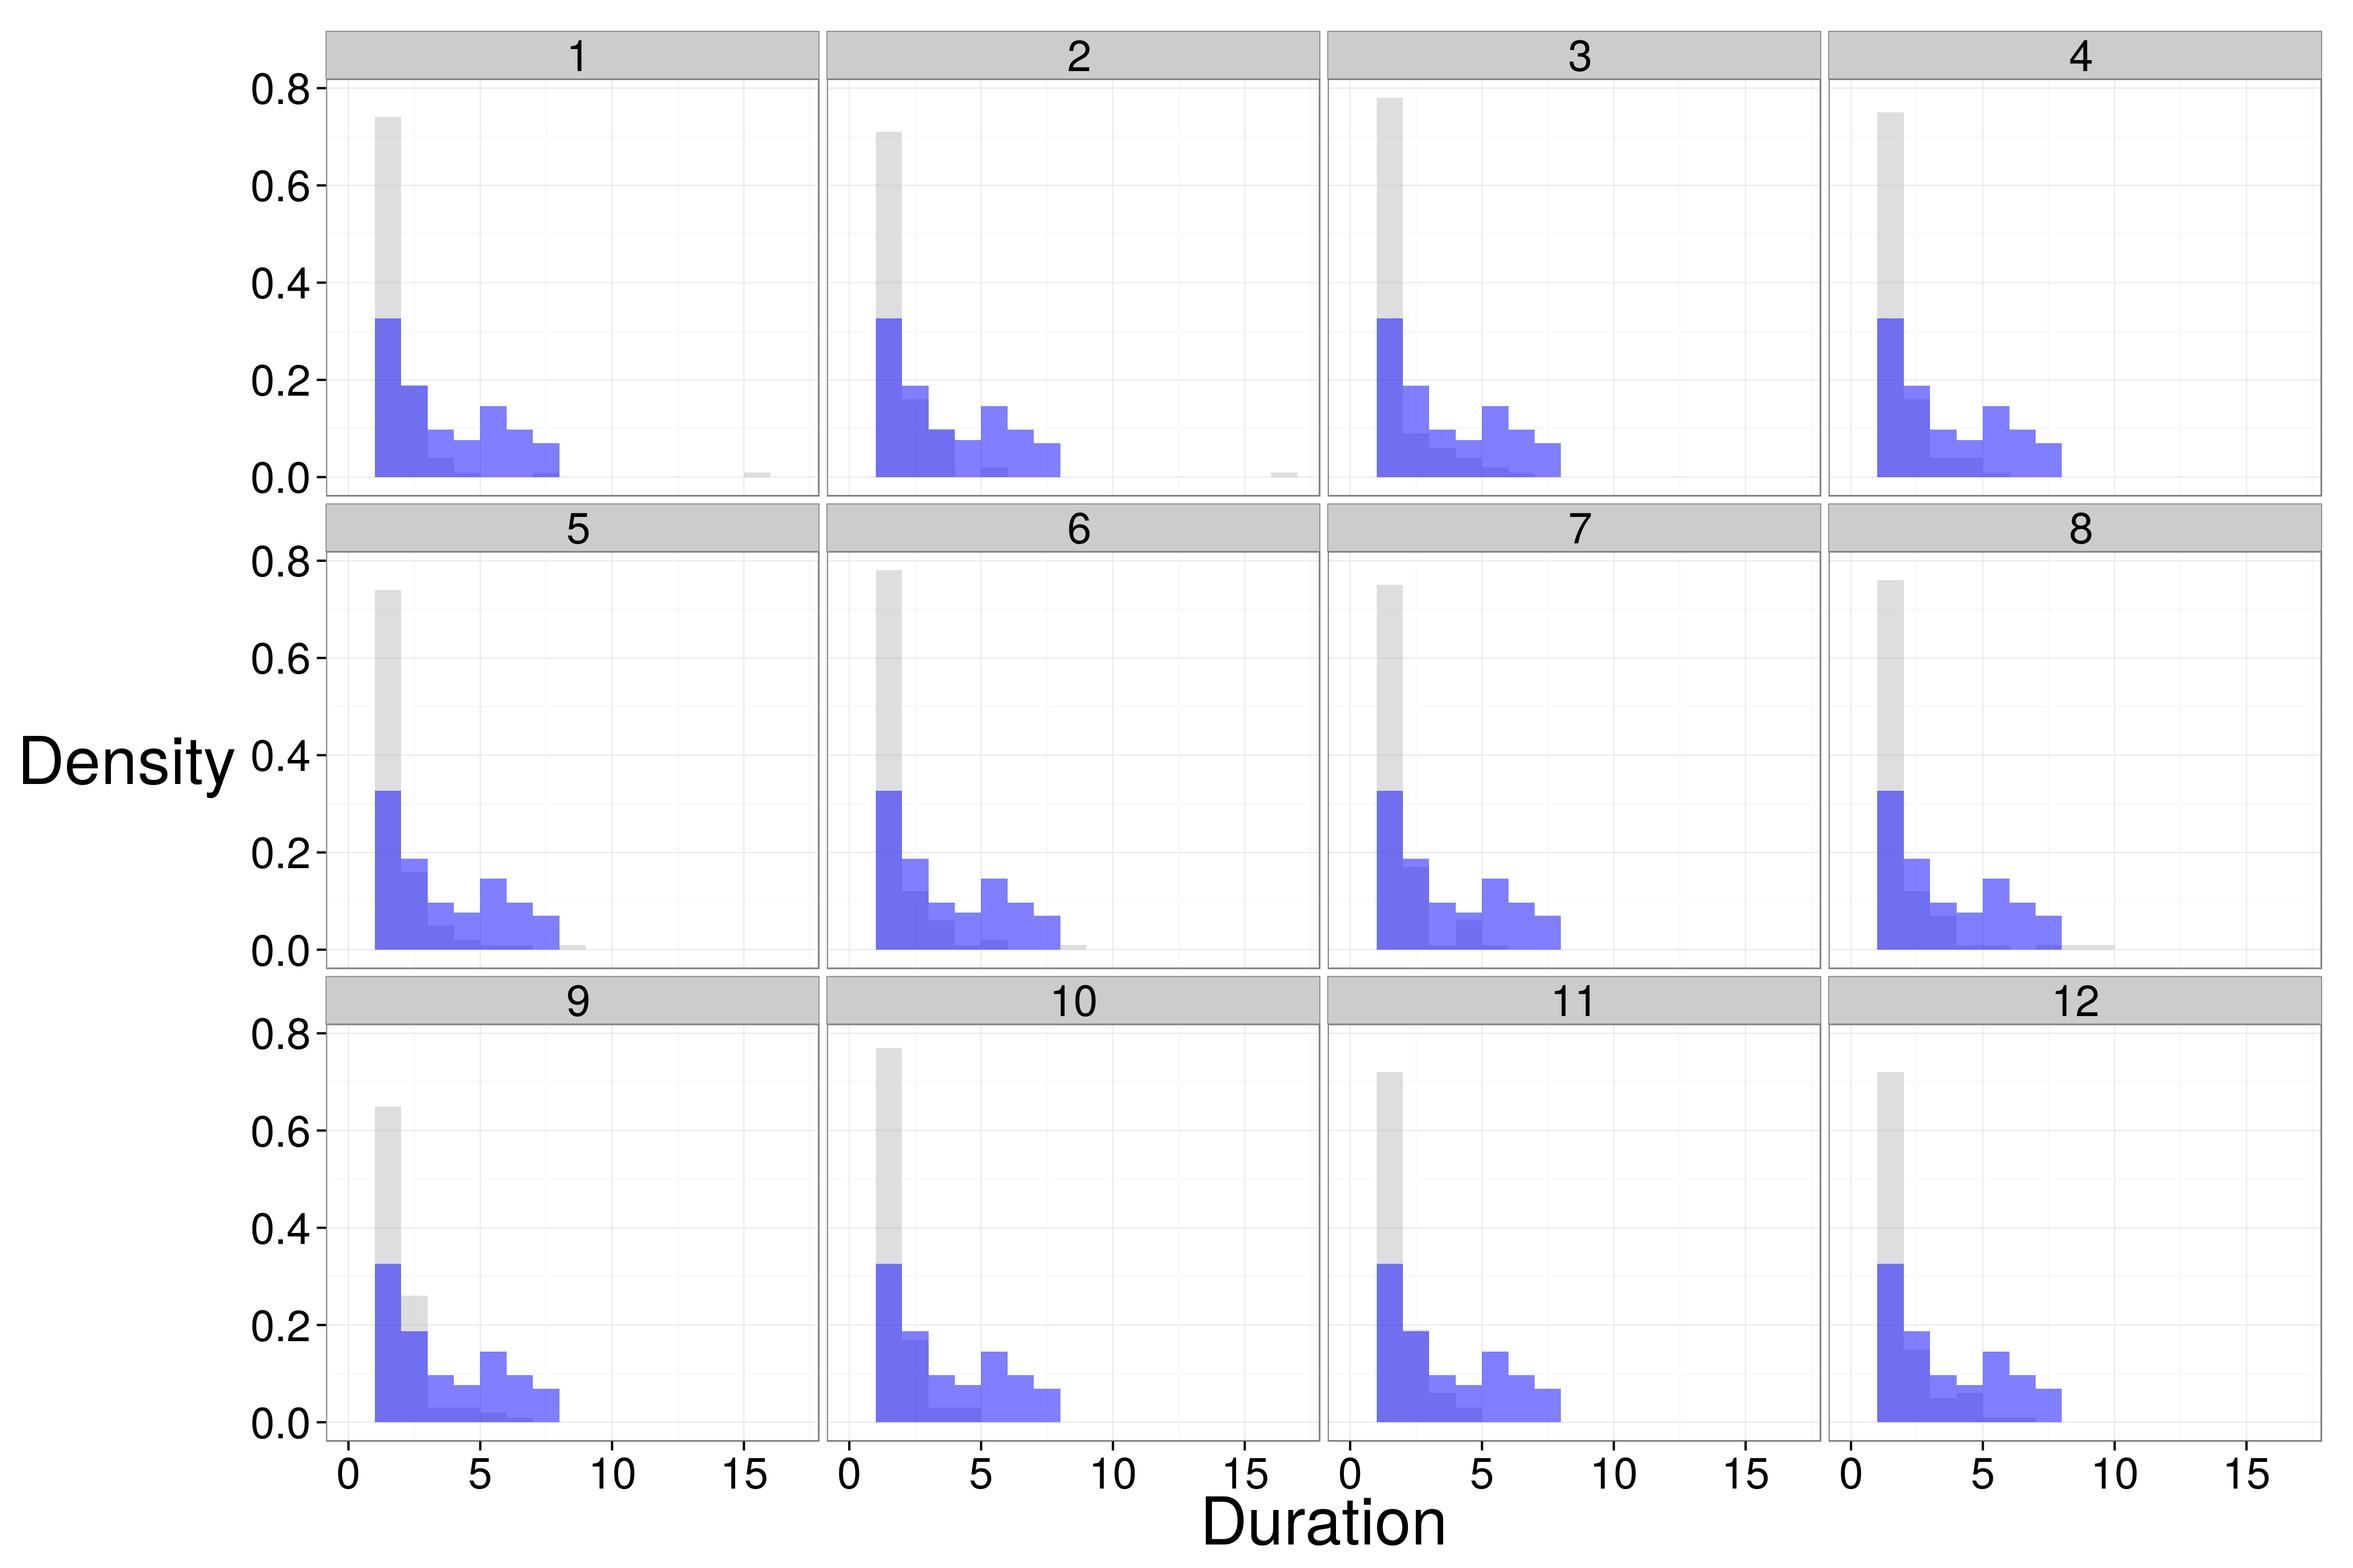
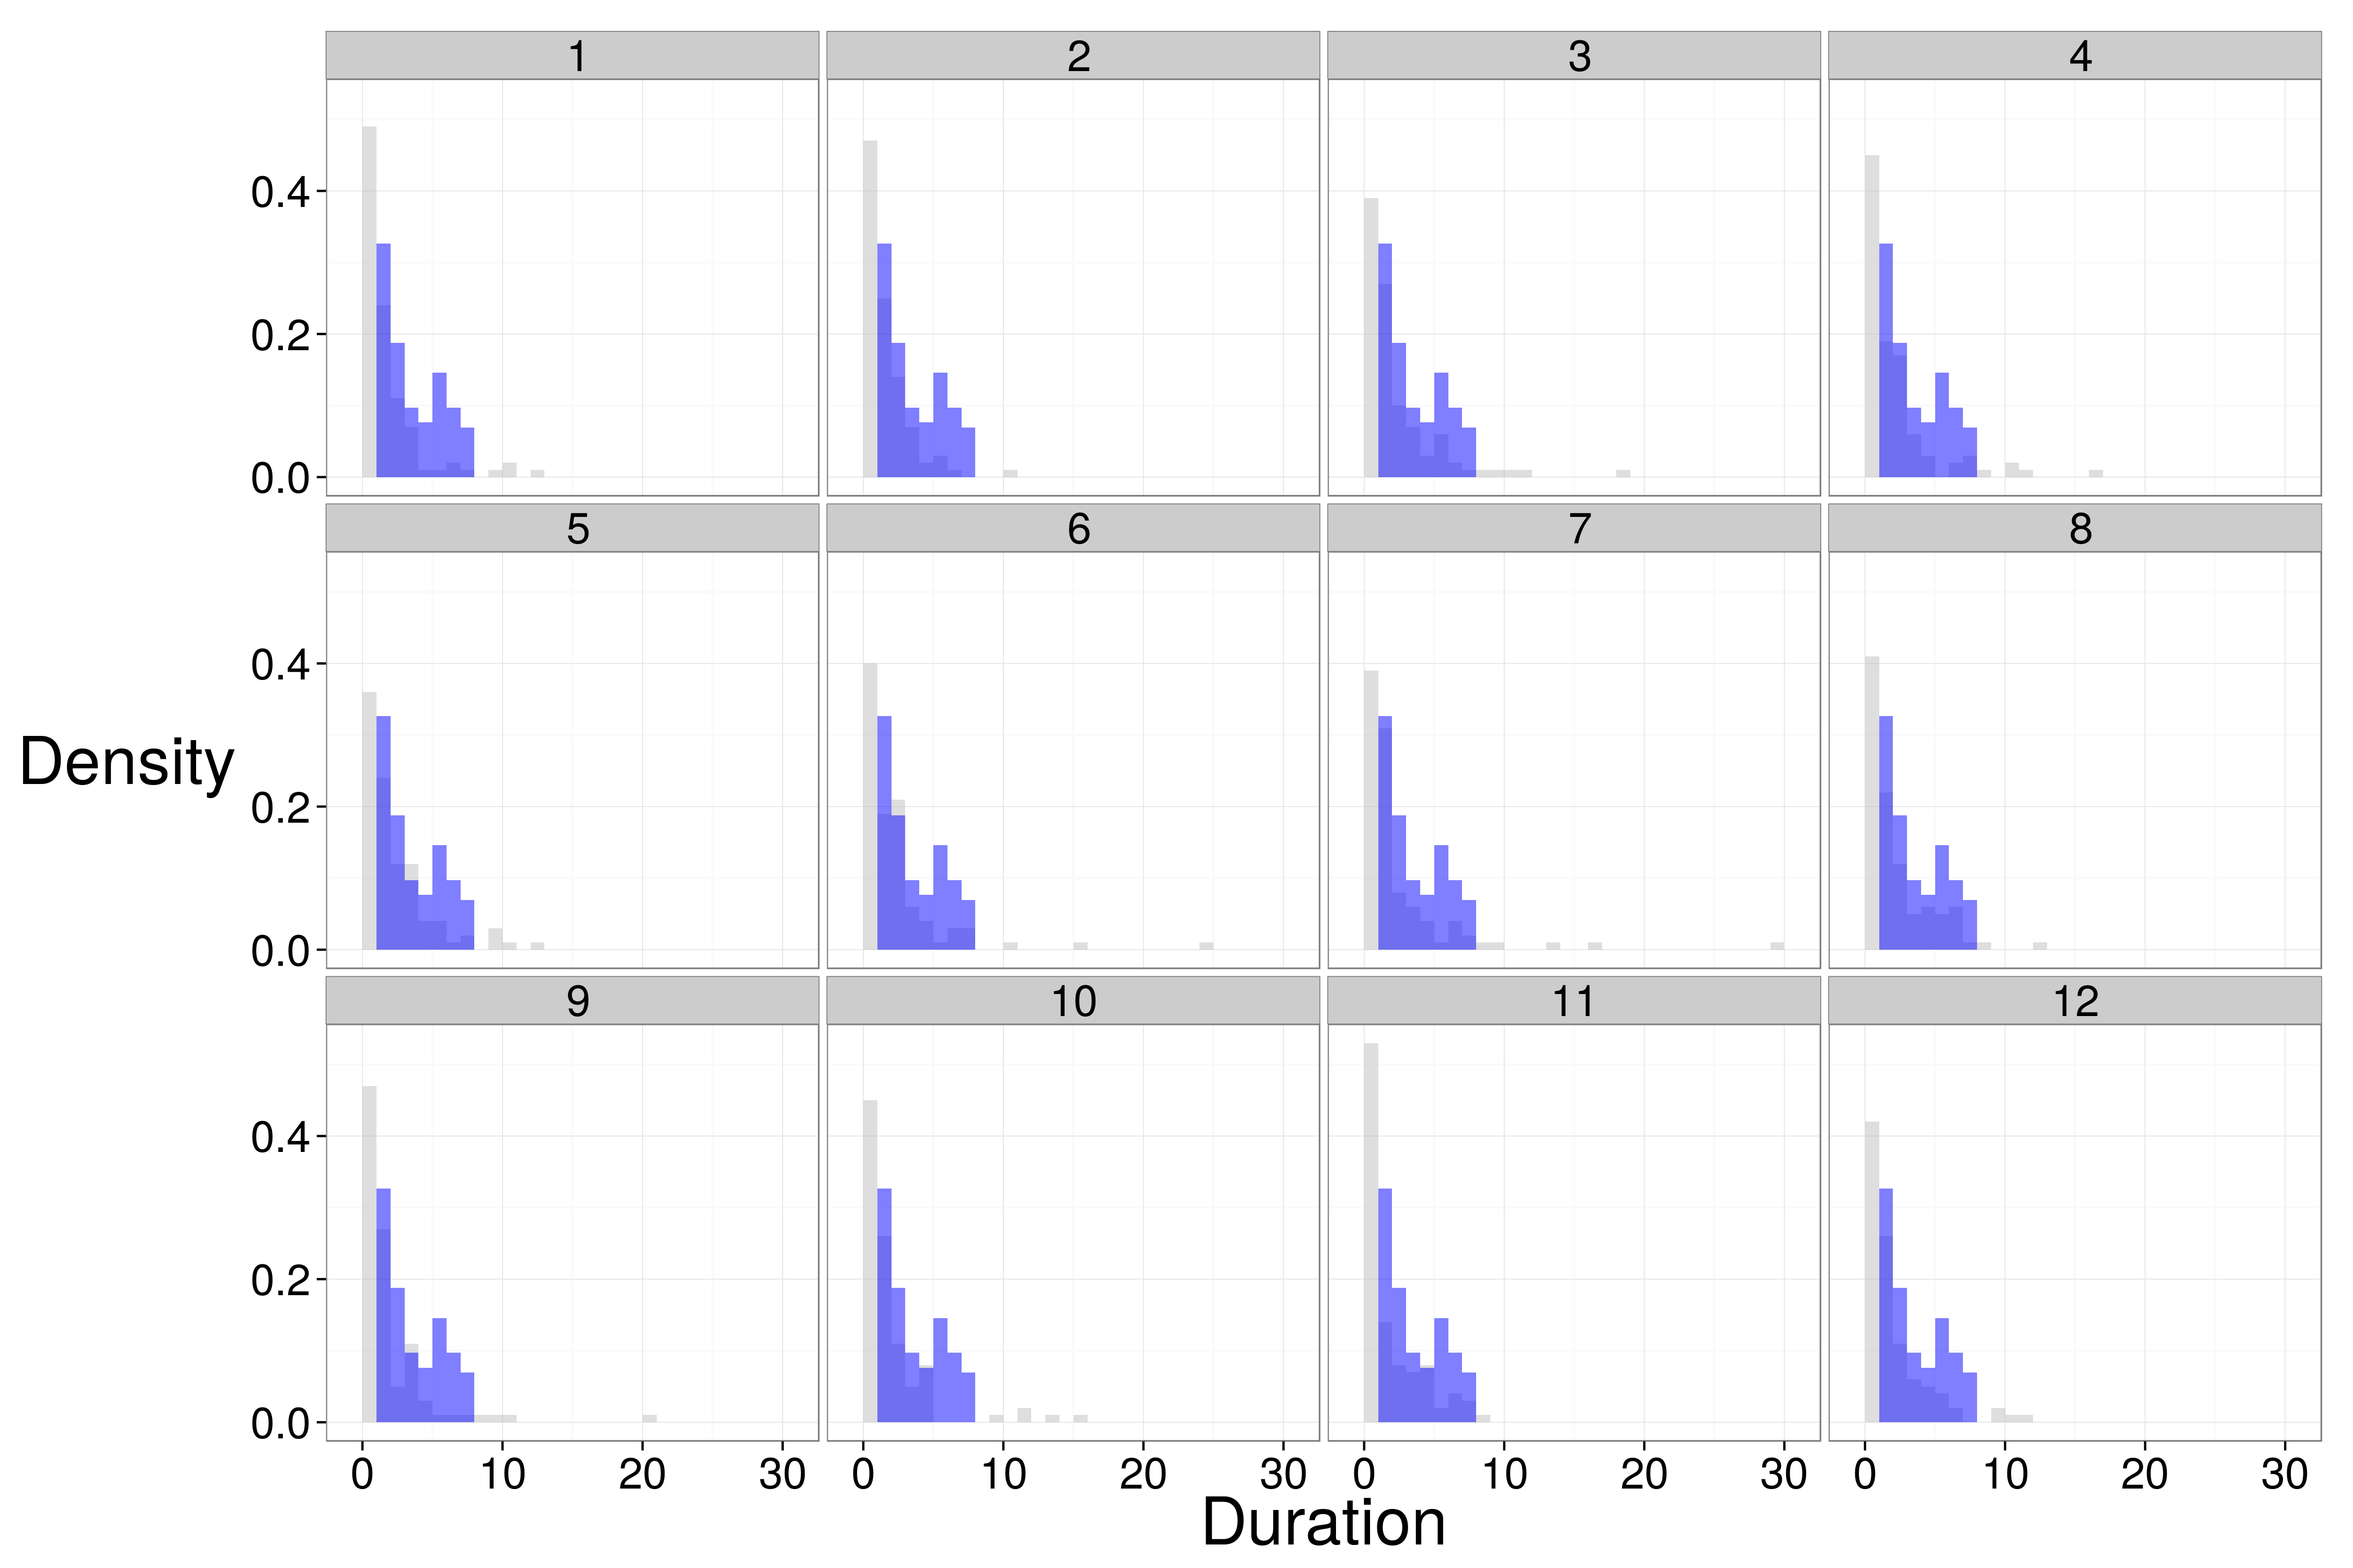
attempt at heirarchical shape. unsure if worked?

diff --git a/doc/talk_gsa14.tex b/doc/talk_gsa14.tex
@@ -174,11 +174,11 @@
   \frametitle{State of knowledge}
 
   \begin{block}{Preliminary conclusions}
-    Little evidence for age-independent pattern.
+    Little evidence for single, age-independent pattern.
 
     Occupancy has largest effect. 
     
-    P(carbonate \(\mid\) occurrences) \(\approx\) no effect.
+    Substrate affinity \(\approx\) no effect.
   \end{block}
 \end{frame}
 
@@ -186,31 +186,18 @@
   \frametitle{Modeling improvements}
 
   \begin{alertblock}{Major roadblock}
-    \alert{\uppercase{heavy right tail}}
+    \alert{\uppercase{heavy right tail}}: model missing long-lived genera
   \end{alertblock}
 
   \bigskip
 
   \begin{itemize}
     \item sampling distribution
-      \begin{itemize}
-        \item three-parameter Weibull
-        \item mixture of distributions
-      \end{itemize}
     \item different priors
-    \item non-linear/heterogeneous variance
-    \item fossil sampling effect
+    \item larger dataset, more traits
+    \item sampling effect?
   \end{itemize}
 \end{frame}
-
-%\begin{frame}
-%  \frametitle{Data set} % replace this text with an image
-%  \begin{itemize}
-%    \item New Zealand record (FRED)
-%    \item improved paleoenvironment reconstructions
-%    \item affixing strategy information
-%  \end{itemize}
-%\end{frame}
 
 \begin{frame}
   \frametitle{Remember\dots}
